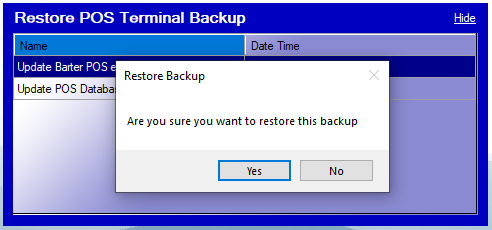
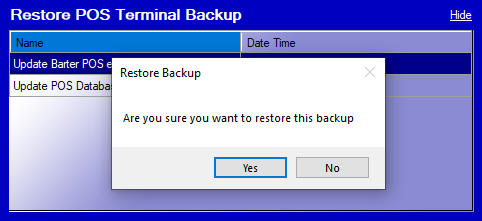
Added photos to auto updater and auto sync

Changed region(s): [[0.0, 0.0, 1.0, 1.0]]

diff --git a/index.html b/index.html
@@ -403,36 +403,80 @@
                         Show below is the point-of-sales auto-updater module updating the files of the local terminal from the branch server (see Figure 15). This is added as a task on the Windows task scheduler on user login. The user interface was created to match the design of the legacy point-of-sales system the module was to be integrated into.
                     </p>
                     <div class="image-container mb-3" style="display: flex; justify-content: center;">
-                        <img src="assets/img/auto_updater/install_update.png" class="img-fluid mt-1 mb-1" style="max-width: 400px; width: 100%; border: 1px solid #000000;">
+                        <img src="assets/img/auto_updater/install_update.png" class="img-fluid mt-1 mb-1" style="max-width: 500px; width: 100%; border: 1px solid #000000;">
                     </div>
                     <p>
                         After updates have been checked and installed, the Barter point-of-sales terminal program is run. The Barter POS auto-updater module is then hidden in the system tray (see Figure 16). This allows the program to be run in the background. In order to show the program, the user needs to double-click on the icon found in the system tray.
                     </p>
                     <div class="image-container mb-3" style="display: flex; justify-content: center;">
-                        <img src="assets/img/auto_updater/system_tray.png" class="img-fluid mt-1 mb-1" style="max-width: 200px; width: 100%; border: 1px solid #000000;">
+                        <img src="assets/img/auto_updater/system_tray.png" class="img-fluid mt-1 mb-1" style="max-width: 250px; width: 100%; border: 1px solid #000000;">
                     </div>
                     <p>
                         The Barter POS auto-updater module also has functionality for restoring or rolling back backups. Backups can be found in the POS_Update_Backups folder on the terminal and are stored in a zip file. Backups older than the AutoCleanupDaysLimit field stored on the terminal which in this case was set to 90 days were deleted to save on space. Figure 17 shows the restoration of the backup user interface. It shows a table of the name of the backup which was taken from the name of the update folder as well as the date and time the update was installed.
                     </p>
                     <div class="image-container mb-3" style="display: flex; justify-content: center;">
-                        <img src="assets/img/auto_updater/restore_backup.png" class="img-fluid mt-1 mb-1" style="max-width: 300px; width: 100%; border: 1px solid #000000;">
+                        <img src="assets/img/auto_updater/restore_backup.png" class="img-fluid mt-1 mb-1" style="max-width: 500px; width: 100%; border: 1px solid #000000;">
                     </div>
                     <p>
                         To restore a backup, double-click on your desired backup to roll back. A prompt will then show confirming the decision of the user to restore the backup (see Figure 18).
                     </p>
                     <div class="image-container mb-3" style="display: flex; justify-content: center;">
-                        <img src="assets/img/auto_updater/restore_complete.png" class="img-fluid mt-1 mb-1" style="max-width: 300px; width: 100%; border: 1px solid #000000;">
+                        <img src="assets/img/auto_updater/restore_confirmation.png" class="img-fluid mt-1 mb-1" style="max-width: 500px; width: 100%; border: 1px solid #000000;">
                     </div>
                     <p>
                         If the user selects yes, a prompt for supervisor credentials will be shown, this is because only supervisors are able to roll back updates on the terminals as needed (see Figure 19).
                     </p>
+                    <div class="image-container mb-3" style="display: flex; justify-content: center;">
+                        <img src="assets/img/auto_updater/credentials.png" class="img-fluid mt-1 mb-1" style="max-width: 500px; width: 100%; border: 1px solid #000000;">
+                    </div>
                     <p>
                         If correct supervisor credentials have been entered to authorize the rollback of an update, it will start the operation. The figure down below shows the prompt that will display once the restoration of a backup is complete (see Figure 20).
-
                     </p>
+                    <div class="image-container mb-3" style="display: flex; justify-content: center;">
+                        <img src="assets/img/auto_updater/restore_complete.png" class="img-fluid mt-1 mb-1" style="max-width: 500px; width: 100%; border: 1px solid #000000;">
+                    </div>
                     <p>
                         After the development of the module, the student was asked to create a user manual. As of the moment of writing this report June 2, 2023, the supervisor of the student plans to code review and pass the program to be checked by QA in the hopes of being used in production. The user manual highlights the functionality, installation process on the terminal, and how to load the updates on the branch server to be checked by the auto-updater module installed on the terminals (see Figure 21).
                     </p>
+                    <div class="image-container mb-3" style="display: flex; justify-content: center;">
+                        <img src="assets/img/auto_updater/user_manual.png" class="img-fluid mt-1 mb-1" style="max-width: 600px; width: 100%; border: 1px solid #000000;">
+                    </div>
+
+
+                    <h4 class="mt-5">Point-of-Sales Records Sync Module</h4>
+                    <p>
+                        As a quick overview, local terminal transaction records are sent to the branch server after every transaction. However, the local MS Access MDB file database of a terminal sometimes gets corrupted and its records are lost. This is a problem as the transactions on the terminals will not match the transactions on the server. This is especially problematic when the transaction ids on the local are reset and cause an error as these transaction ids might already be used in the server. Furthermore, an accurate balancing of records must be kept so that reports of sales, returns, and voided transactions are accurate.
+                    </p>
+                    <p>
+                        To remedy this, the current process of the system support team is to manually update and synchronize the lost records on the terminal. Either they (1)manually repeat and recreate the transactions through the POS terminal software or they (2) transfer the server transaction records through SQL commands (see Figure 22). Both of these approaches typically result in a downtime of 15 minutes at best and could take hours in the worst-case scenario. Moreover, this manual approach is tedious, time-consuming, and prone to human error as each transaction table, namely header, items, and payment has a total of over 100 fields.
+                    </p>
+                    <div class="image-container mb-3" style="display: flex; justify-content: center;">
+                        <img src="assets/img/auto_sync/sample_data.png" class="img-fluid mt-1 mb-1" style="max-width: 600px; width: 100%; border: 1px solid #000000;">
+                    </div>
+                    <p>
+                        The module developed by the student remedies this by checking for transactions that are present on the server that is not on the local database of the terminals. It then inserts these transaction records to rectify the lost data. Figure 23 below shows the initial screen of the module. It accepts from and to date ranges to filter and narrow down the records to be checked and synchronized by the module.
+                    </p>
+                    <div class="image-container mb-3" style="display: flex; justify-content: center;">
+                        <img src="assets/img/auto_sync/initial_page.png" class="img-fluid mt-1 mb-1" style="max-width: 500px; width: 100%; border: 1px solid #000000;">
+                    </div>
+                    <p>
+                        Figure 24 shows what happens when the check records button is been pressed. It will first show a summary of the number of records in the database of the local point-of-sales terminal and the branch server.
+                    </p>
+                    <div class="image-container mb-3" style="display: flex; justify-content: center;">
+                        <img src="assets/img/auto_sync/record_count.png" class="img-fluid mt-1 mb-1" style="max-width: 500px; width: 100%; border: 1px solid #000000;">
+                    </div>
+                    <p>
+                        If there are more server records than local point-of-sales terminal records, the program will prompt the user if they want to transfer the records not found on the local terminal that are on the server. The message also reminds the user that this action is permanent and cannot be undone (see Figure 25).
+                    </p>
+                    <div class="image-container mb-3" style="display: flex; justify-content: center;">
+                        <img src="assets/img/auto_sync/transfer_records.png" class="img-fluid mt-1 mb-1" style="max-width: 500px; width: 100%; border: 1px solid #000000;">
+                    </div>
+                    <p>
+                        Once the operation is complete, a message box will show that the program has finished transferring the records found on the server into the terminal (see Figure 27).
+                    </p>
+                    <div class="image-container mb-3" style="display: flex; justify-content: center;">
+                        <img src="assets/img/auto_sync/transafer_done.png" class="img-fluid mt-1 mb-1" style="max-width: 500px; width: 100%; border: 1px solid #000000;">
+                    </div>
                 </div>
             </section>
             <hr class="m-0" />
